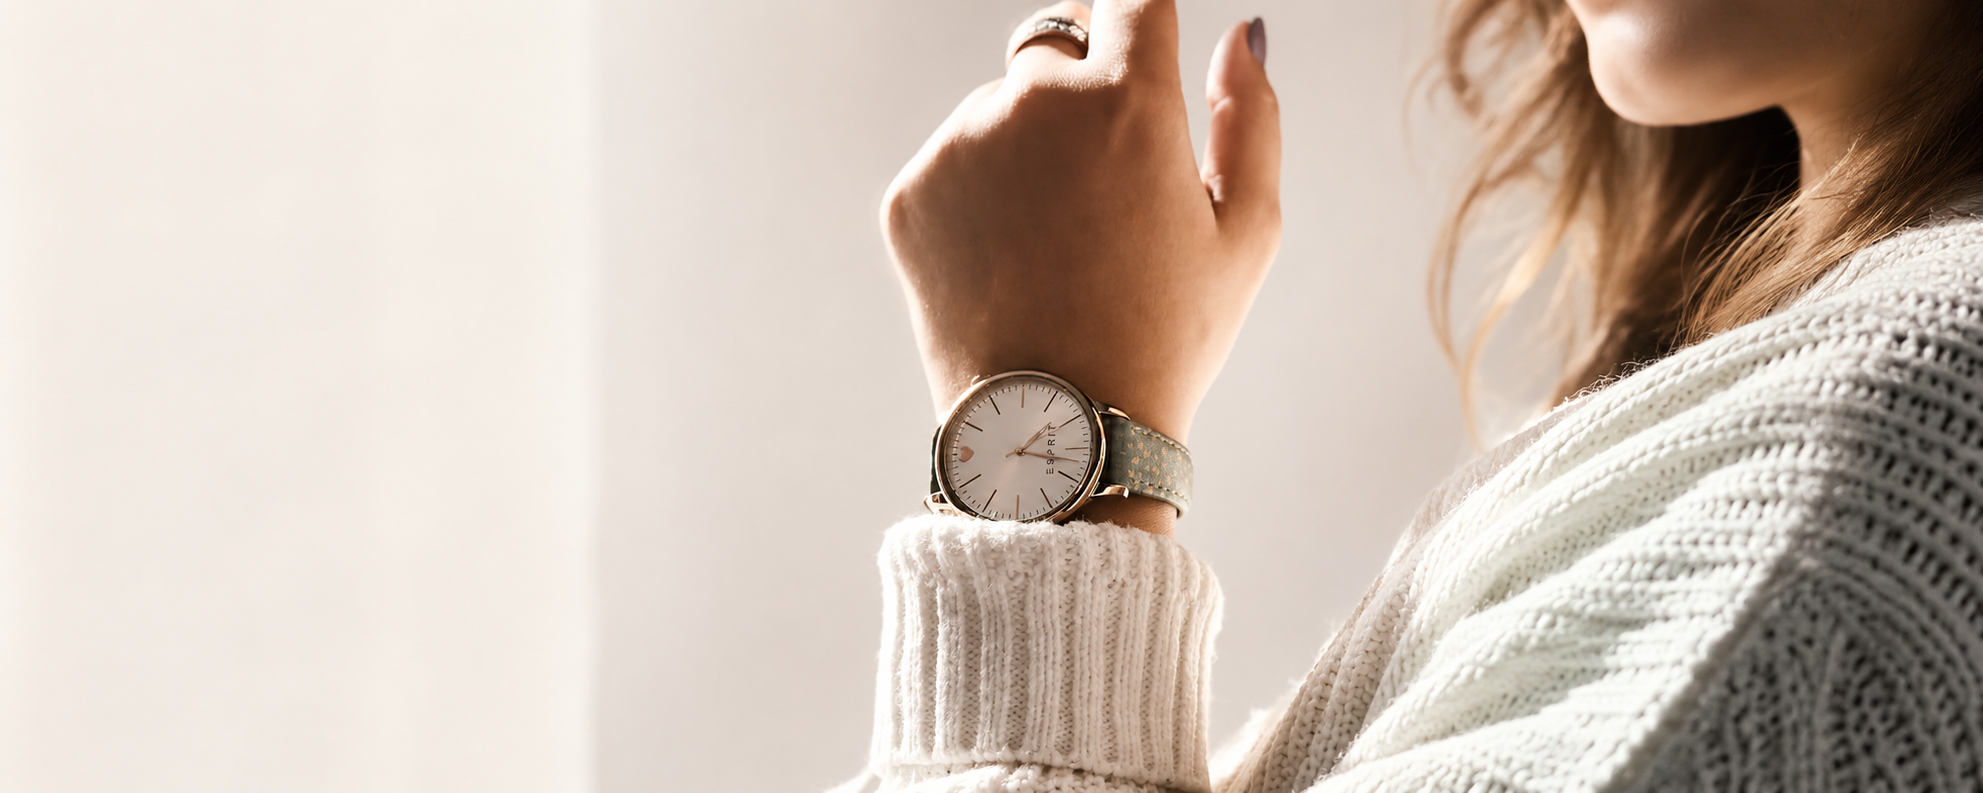
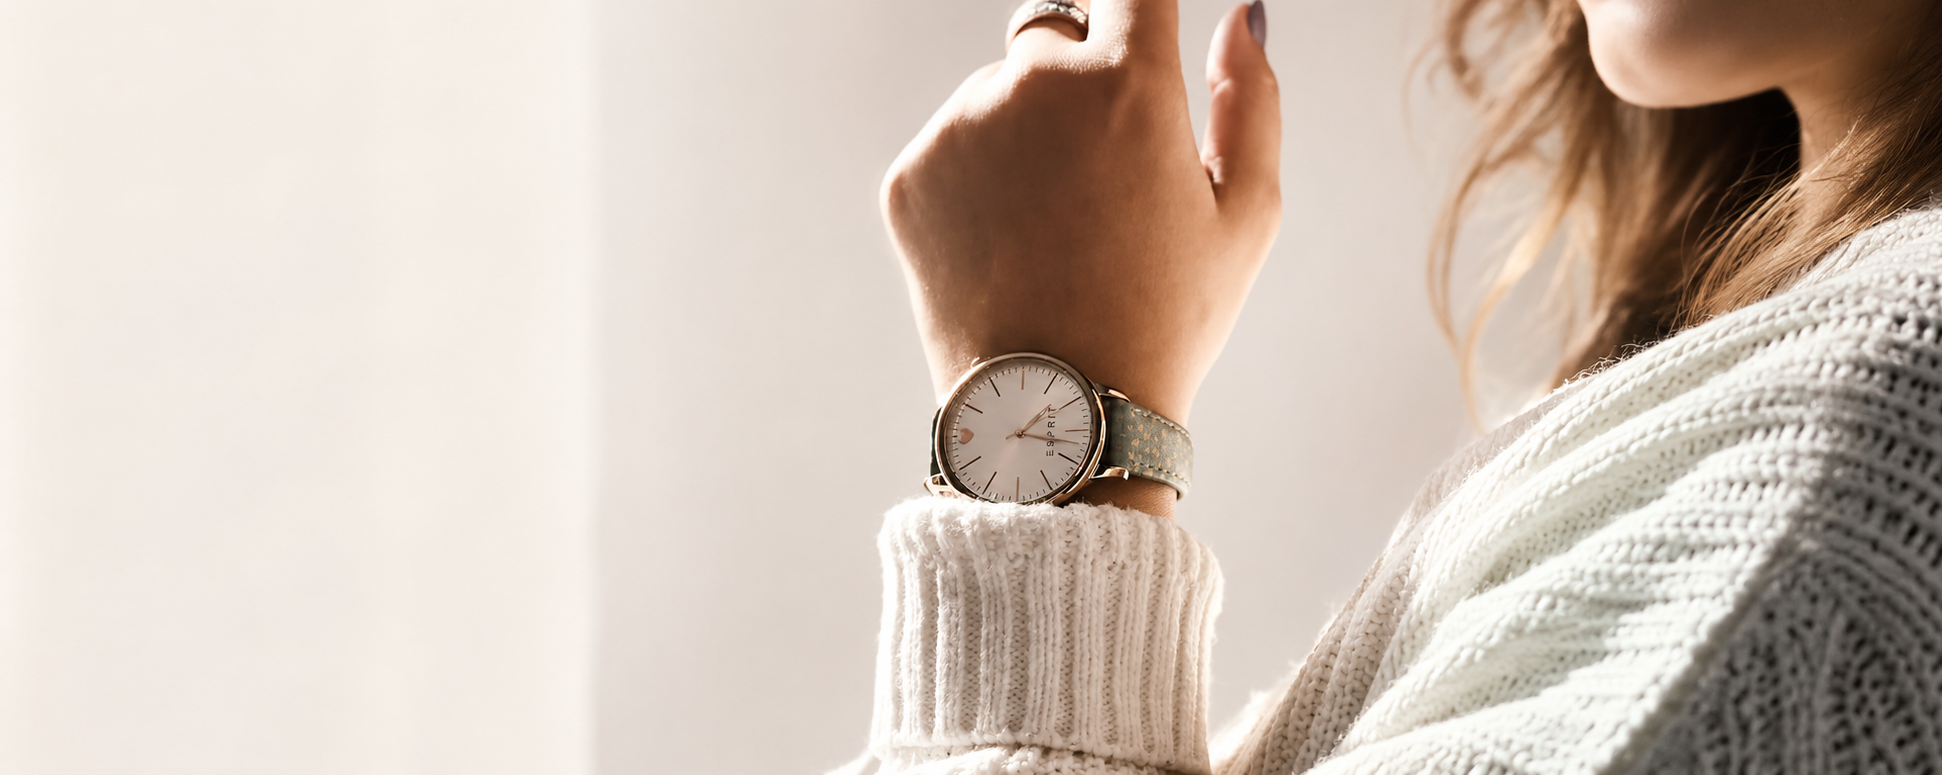
feat: scaffold Home, CollectionDetail, and ShopWomen pages with initial layout styles and assets

Changed region(s): [[0.4016, 0.0, 1.0, 1.0]]

diff --git a/views/src/pages/home/HomePage.jsx b/views/src/pages/home/HomePage.jsx
@@ -538,29 +538,35 @@ export default function HomePage() {
     return () => observer.disconnect()
   }, [])
 
-  // Synchronize mobile scroll button visibility with the horizontal cards container.
+  // Synchronize scroll button visibility with the horizontal scroll containers.
   useEffect(() => {
-    const container = collectionsCardsRef.current
-    if (!container) return undefined
+    const track = scrollTrackRef.current
+    const cards = collectionsCardsRef.current
+    if (!track && !cards) return undefined
 
-    const handleScroll = () => {
-      const { scrollLeft, scrollWidth, clientWidth } = container
-
-      // If the container hasn't calculated dimensions yet, skip update to preserve default "visible" state.
-      if (scrollWidth === 0) return
-
-      // Using a 10px buffer to avoid flickering on sub-pixel rounding or minor layout offsets.
-      setCanScrollCollectionsLeft(scrollLeft > 10)
-      setCanScrollCollectionsRight(scrollLeft < scrollWidth - clientWidth - 10)
+    const getScrollMetrics = (el) => {
+      if (!el) return null
+      return { scrollLeft: el.scrollLeft, scrollWidth: el.scrollWidth, clientWidth: el.clientWidth }
     }
 
-    container.addEventListener('scroll', handleScroll, { passive: true })
+    const update = () => {
+      const t = getScrollMetrics(track)
+      const c = getScrollMetrics(cards)
+      const sl = (t && t.scrollWidth > t.clientWidth) ? t.scrollLeft : (c ? c.scrollLeft : 0)
+      const sw = (t && t.scrollWidth > t.clientWidth) ? t.scrollWidth : (c ? c.scrollWidth : 0)
+      const cw = (t && t.scrollWidth > t.clientWidth) ? t.clientWidth : (c ? c.clientWidth : 0)
+      if (sw === 0) return
+      setCanScrollCollectionsLeft(sl > 10)
+      setCanScrollCollectionsRight(sl < sw - cw - 10)
+    }
 
-    // Initial check with a small delay to ensure layout and scrollWidth are ready.
-    const timer = setTimeout(handleScroll, 200)
+    track?.addEventListener('scroll', update, { passive: true })
+    cards?.addEventListener('scroll', update, { passive: true })
+    const timer = setTimeout(update, 200)
 
     return () => {
-      container.removeEventListener('scroll', handleScroll)
+      track?.removeEventListener('scroll', update)
+      cards?.removeEventListener('scroll', update)
       clearTimeout(timer)
     }
   }, [featured])
@@ -595,9 +601,9 @@ export default function HomePage() {
   // ── Scroll management ─────────────────────────────────────────────────────
 
   const scrollCollections = (direction) => {
-    // On desktop, scrollTrackRef handles the drag/sticky logic.
-    // On mobile, collectionsCardsRef is the horizontal container.
-    const container = collectionsCardsRef.current
+    const track = scrollTrackRef.current
+    const cards = collectionsCardsRef.current
+    const container = (track && track.scrollWidth > track.clientWidth) ? track : cards
     if (!container) return
 
     const scrollAmount = container.offsetWidth * 0.8

diff --git a/views/src/pages/home/HomePage.css b/views/src/pages/home/HomePage.css
@@ -618,7 +618,42 @@
 }
 
 .home-collections__mobile-nav {
-  display: none;
+  display: flex;
+  position: absolute;
+  top: 50%;
+  left: 0;
+  right: 0;
+  transform: translateY(-50%);
+  justify-content: space-between;
+  padding: 0 var(--space-xs);
+  pointer-events: none;
+  z-index: 10;
+}
+
+.home-collections__nav-btn {
+  pointer-events: auto;
+  width: 2.6rem;
+  height: 2.6rem;
+  padding: 0;
+  display: flex;
+  align-items: center;
+  justify-content: center;
+  opacity: 0;
+  visibility: hidden;
+  transform: scale(0.9);
+  transition:
+    opacity 0.3s ease,
+    visibility 0.3s ease,
+    transform 0.3s cubic-bezier(0.34, 1.56, 0.64, 1),
+    background-color var(--transition-normal),
+    color var(--transition-normal),
+    border-color var(--transition-normal);
+}
+
+.home-collections__nav-btn--visible {
+  opacity: 1;
+  visibility: visible;
+  transform: scale(1);
 }
 
 /* ── Responsive ────────────────────────────────────────────────────────── */
@@ -674,52 +709,7 @@
   }
 
   .home-collections__mobile-nav {
-    display: flex;
-    position: absolute;
     top: 60%;
-    left: 0;
-    right: 0;
-    transform: translateY(-50%);
-    justify-content: space-between;
-    padding: 0 var(--space-xs);
-    pointer-events: none;
-    z-index: 10;
-  }
-
-  .home-collections__nav-btn {
-    pointer-events: auto;
-    /* Reset dimensions to match global home-favorites-nav exactly */
-    width: 2.6rem;
-    height: 2.6rem;
-    padding: 0;
-    display: flex;
-    align-items: center;
-    justify-content: center;
-    /* Visibility transition */
-    opacity: 0;
-    visibility: hidden;
-    transform: scale(0.9);
-    transition:
-      opacity 0.3s ease,
-      visibility 0.3s ease,
-      transform 0.3s cubic-bezier(0.34, 1.56, 0.64, 1),
-      background-color var(--transition-normal),
-      color var(--transition-normal),
-      border-color var(--transition-normal);
-  }
-
-  .home-collections__nav-btn--visible {
-    opacity: 1;
-    visibility: visible;
-    transform: scale(1);
-  }
-
-  .home-collections__nav-btn--left {
-    /* Inherits radius-full from global .btn style */
-  }
-
-  .home-collections__nav-btn--right {
-    /* Inherits radius-full from global .btn style */
   }
 
   .home-collections__arrows {
@@ -2130,6 +2120,12 @@
 [data-theme='dark'] .home-heritage__title,
 [data-theme='dark'] .home-heritage__lead {
   text-shadow: 0 8px 24px color-mix(in srgb, #000000 56%, transparent 44%);
+}
+
+[data-theme='dark'] .home-hero__content,
+[data-theme='dark'] .home-hero__title,
+[data-theme='dark'] .home-hero__subtitle {
+  color: #ffffff;
 }
 
 @media (max-width: 768px) {

diff --git a/views/src/pages/info/CollectionDetailPage.jsx b/views/src/pages/info/CollectionDetailPage.jsx
@@ -7,8 +7,16 @@ import ProductGrid from '@/components/product/ProductGrid'
 import { useLanguage } from '@/context/LanguageContext'
 import { resolveCollectionCoverImage } from '@/utils/watchImageResolver'
 import heroVideo from '@/assets/videos/Patek Philippe Background Video.mp4'
-import galleryVideo from '@/assets/videos/Audemars Piguet - Royal Oak.mp4'
-import storyImage from '@/assets/images/Photos/Luxury and Heritage Cover Image.jpg'
+import galleryVideoDefault from '@/assets/videos/Audemars Piguet - Royal Oak.mp4'
+import galleryVideoHeritage from '@/assets/videos/Patek Philippe - Golden Ellipse Ref. 5738-1R-001 Rose Gold.mp4'
+import galleryVideoCasual from '@/assets/videos/Cartier watchmaking.mp4'
+import galleryVideoSport from '@/assets/videos/Breitling Navitimer GMT & Automatic 41.mp4'
+import galleryVideoNoir from '@/assets/videos/Vacheron Constantin Overseas Moon Phase Retrograde Date.mp4'
+import storyImageDefault from '@/assets/images/Photos/Luxury and Heritage Cover Image.jpg'
+import storyImageHeritage from '@/assets/images/Photos/Begining.png'
+import storyImageCasual from '@/assets/images/Photos/Classic and Dress Cover Image.png'
+import storyImageSport from '@/assets/images/Photos/Sports and Adventure.avif'
+import storyImageNoir from '@/assets/images/Photos/Royal Recognition.jpg'
 import galleryPoster from '@/assets/images/Photos/Rolex Cover Image2.jpg'
 import craftCrown from '@/assets/images/Marquee/crown.png'
 import craftHorse from '@/assets/images/Marquee/horse.png'
@@ -97,6 +105,28 @@ export default function CollectionDetailPage() {
   const { t } = useLanguage()
   const collection = data?.collection
   const watches = useMemo(() => (Array.isArray(data?.watches) ? data.watches : []), [data])
+
+  const slug = collection?.slug
+
+  const storyImage = useMemo(() => {
+    const map = {
+      heritage: storyImageHeritage,
+      'casual-everyday': storyImageCasual,
+      'sport-elite': storyImageSport,
+      'noir-series': storyImageNoir,
+    }
+    return map[slug] || storyImageDefault
+  }, [slug])
+
+  const galleryVideo = useMemo(() => {
+    const map = {
+      heritage: galleryVideoHeritage,
+      'casual-everyday': galleryVideoCasual,
+      'sport-elite': galleryVideoSport,
+      'noir-series': galleryVideoNoir,
+    }
+    return map[slug] || galleryVideoDefault
+  }, [slug])
 
   const collectionName = collection?.name ?? t('collection.fallbackName')
   const collectionDescription =

diff --git a/views/src/pages/shop/ShopWomenPage.jsx b/views/src/pages/shop/ShopWomenPage.jsx
@@ -5,7 +5,7 @@ import PageTransition from '@/components/common/PageTransition'
 import Button from '@/components/common/Button'
 import ProductGrid from '@/components/product/ProductGrid'
 import { useLanguage } from '@/context/LanguageContext'
-import womenHero from '@/assets/Models/women.png'
+import womenHero from '@/assets/Models/women1.png'
 import galleryVideo from '@/assets/videos/Cartier watchmaking.mp4'
 import galleryPoster from '@/assets/images/Photos/Rolex Cover Image2.jpg'
 import storyImage from '@/assets/images/Photos/Cartier Cover Image.avif'

diff --git a/views/src/pages/info/CollectionDetailPage.css b/views/src/pages/info/CollectionDetailPage.css
@@ -388,3 +388,11 @@
 [data-theme='dark'] .collection-hero::after {
   background: linear-gradient(90deg, transparent, #1a237e, transparent);
 }
+
+[data-theme='dark'] .collection-hero__content,
+[data-theme='dark'] .collection-hero__eyebrow,
+[data-theme='dark'] .collection-hero__title,
+[data-theme='dark'] .collection-hero__description,
+[data-theme='dark'] .collection-hero__link {
+  color: #ffffff;
+}
